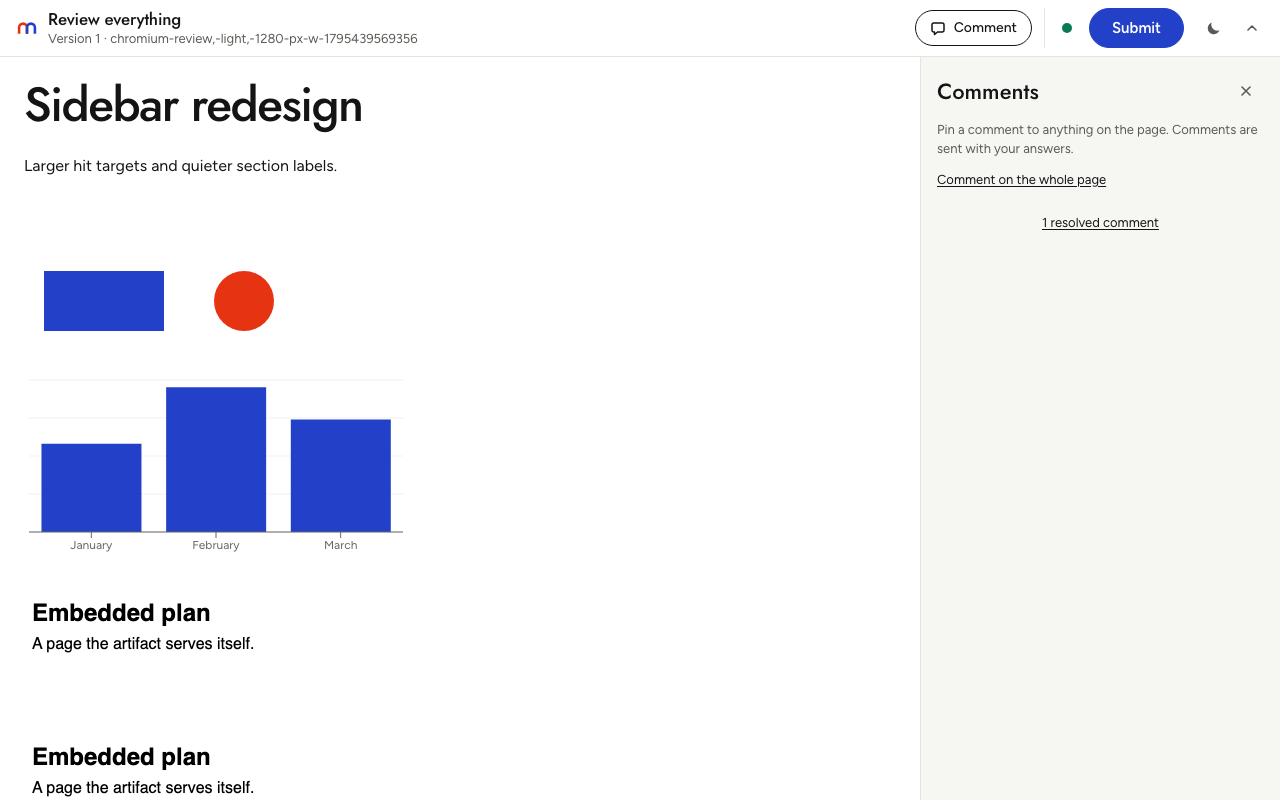
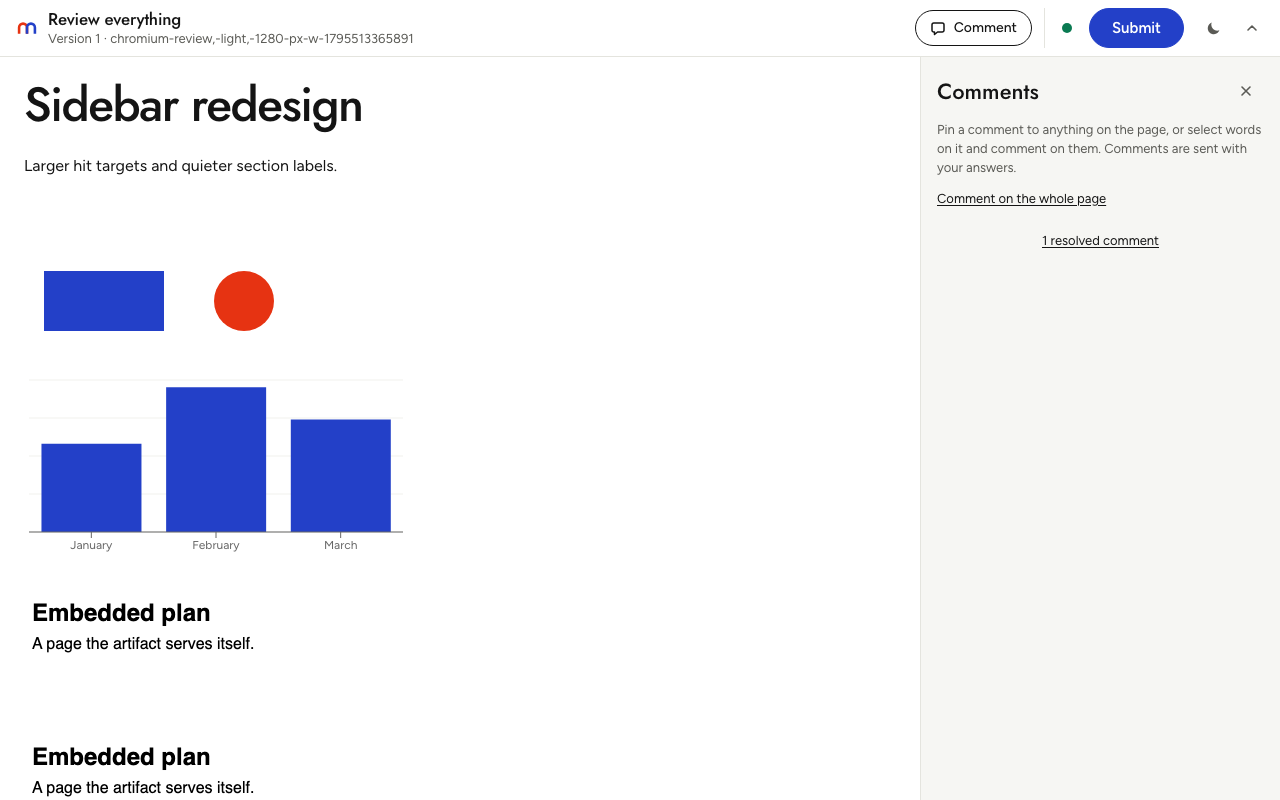
fix(shell): comment mode's words fit a phone; pictures of selected words and dark crops

Changed region(s): [[0.7188, 0.1562, 0.9062, 0.3125], [0.875, 0.1562, 1.0, 0.1875], [0.2812, 0.0312, 0.3125, 0.0625]]

diff --git a/tests/e2e/specs/review-surfaces.spec.ts b/tests/e2e/specs/review-surfaces.spec.ts
@@ -107,6 +107,10 @@ for (const mode of MODES) {
         // Comment mode, then a pin on the heading.
         await press(page.locator("[data-mostra-comment-button]"));
         await expect(page.locator("[data-mostra-review-surface]")).toBeVisible();
+        // Comment mode says what to do (Mirza's review): tap on a phone, click on a computer.
+        await expect(page.locator("[data-mostra-review-hint]")).toContainText(
+          "what you want to comment on.",
+        );
         await shoot("mode");
         const box = await frame.locator("h1").boundingBox();
         if (!box) throw new Error("No box for the heading");
@@ -130,6 +134,27 @@ for (const mode of MODES) {
         expect(Math.abs(pin.x + pin.width / 2 - point.x)).toBeLessThan(3);
         expect(Math.abs(pin.y + pin.height / 2 - point.y)).toBeLessThan(3);
         await shoot("thread");
+
+        // Words selected on the page offer a comment on them, beside them (Mirza's review).
+        await frame.locator("h1").evaluate((heading) => {
+          const text = heading.firstChild as Text;
+          const range = document.createRange();
+          range.setStart(text, 0);
+          range.setEnd(text, Math.min(text.data.length, 7));
+          const selection = document.getSelection() as Selection;
+          selection.removeAllRanges();
+          selection.addRange(range);
+        });
+        const offer = page.locator("[data-mostra-selection-comment]");
+        await expect(offer).toBeVisible();
+        await shoot("selection");
+        await press(offer);
+        await expect(page.locator("[data-mostra-review-new]")).toBeVisible();
+        await shoot("selection-composer");
+        await press(page.locator("[data-mostra-review-new] .mostra-button").first());
+        await expect(page.locator("[data-mostra-review-new]")).toHaveCount(0);
+        await frame.locator("h1").evaluate(() => document.getSelection()?.removeAllRanges());
+        await expect(offer).toHaveCount(0);
 
         // A reply, then resolving the thread.
         await press(thread.locator("[data-mostra-reply]"));

diff --git a/packages/shell/src/shell.css b/packages/shell/src/shell.css
@@ -1100,13 +1100,14 @@ body {
 .mostra-review-hint {
   position: absolute;
   inset-block-start: 10px;
-  inset-inline-start: 50%;
-  transform: translateX(-50%);
+  /* Centred, as wide as its words need: a phone's whole width before they wrap. */
+  inset-inline: 10px;
+  inline-size: fit-content;
+  margin-inline: auto;
   z-index: 2;
   display: flex;
   align-items: center;
   gap: 12px;
-  max-inline-size: calc(100% - 20px);
   padding: 8px 8px 8px 14px;
   border-radius: 999px;
   background: var(--foreground);
@@ -1126,6 +1127,7 @@ body {
    the page wherever the page says its selection is (the inline clamp). */
 .mostra-selection-comment {
   position: absolute;
+  white-space: nowrap;
   z-index: 2;
   transform: translateX(-50%);
   pointer-events: auto;
